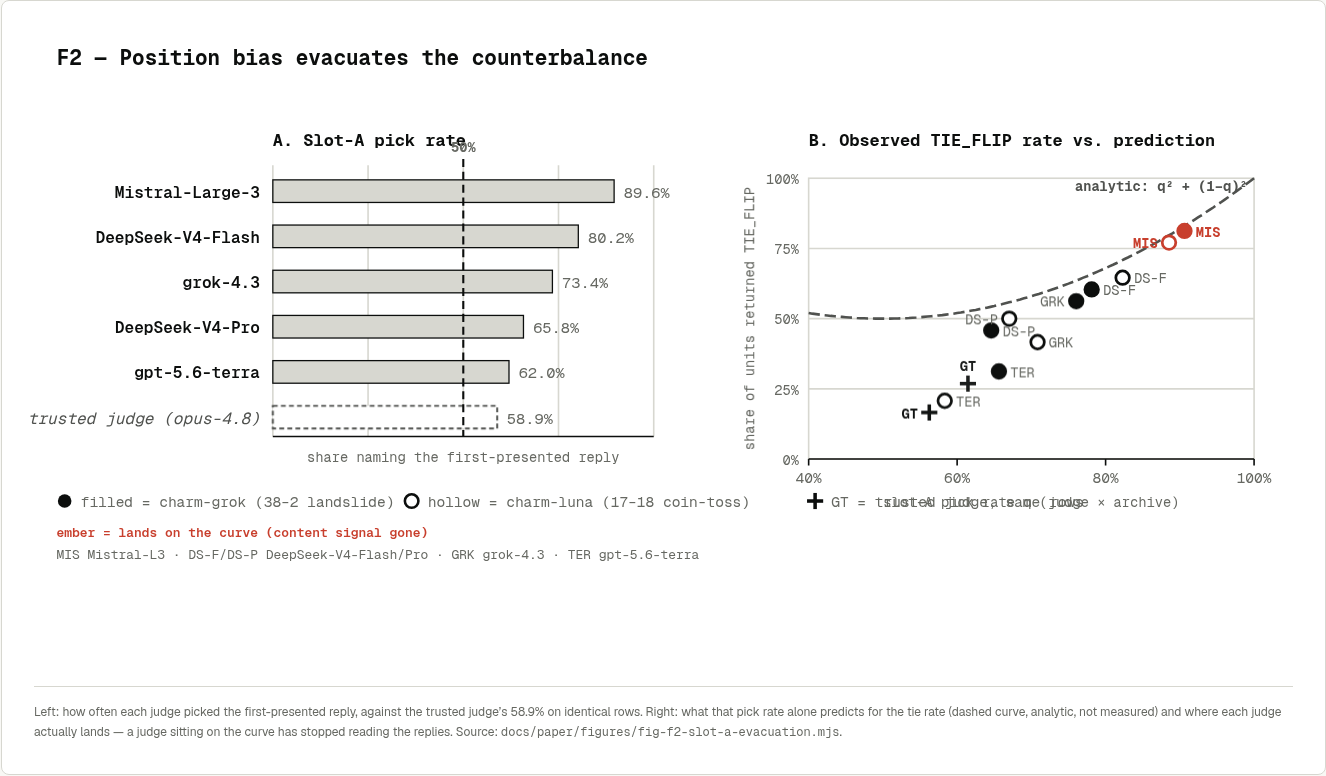
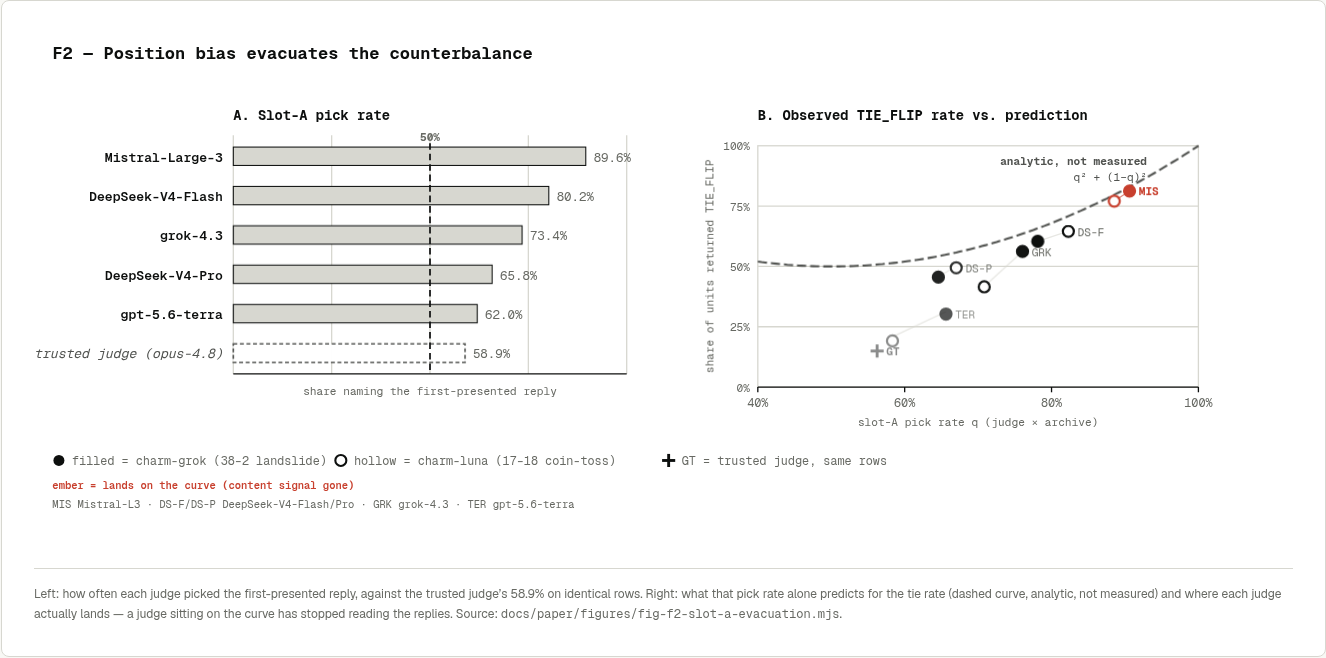
Checkpoint: figure docs + shots from figures workstream
Claude-Session: https://claude.ai/code/session_01ADfx629Po8FtpzbQHrzYQb

diff --git a/docs/website-research/components/FigOrderEvacuation.tsx b/docs/website-research/components/FigOrderEvacuation.tsx
@@ -204,6 +204,7 @@ export function FigOrderEvacuation({
   }
 
   const ticksB = [40, 60, 80, 100];
+  const codeOrder = [...new Set(points.map((p) => p.code))];
 
   return (
     <div ref={narrowRef} className={className}>
@@ -315,11 +316,39 @@ export function FigOrderEvacuation({
             q² + (1−q)²
           </text>
 
+          {/* Same-judge pairs (one point per archive) can sit only a few px
+              apart at this data density — Mistral-Large-3's pair is the
+              tightest. A thin connector plus ONE shared code label (placed
+              at whichever archive point sits further from the curve, so it
+              lands in the more open space) reads cleaner than two "MIS"
+              strings fighting for the same few pixels, and doubles as a
+              visual echo of the dumbbell motif in Figure 3. */}
+          {codeOrder.map((code) => {
+            const group = points.filter((p) => p.code === code);
+            if (group.length < 2) return null;
+            const [a, b] = group;
+            return (
+              <line
+                key={`connector-${code}`}
+                x1={xB(a.q)}
+                y1={yB(a.tieFlipRate)}
+                x2={xB(b.q)}
+                y2={yB(b.tieFlipRate)}
+                stroke={a.onCurve ? EMBER : HAIRLINE}
+                strokeWidth={1}
+                opacity={0.6}
+              />
+            );
+          })}
           {points.map((p, i) => {
             const px = xB(p.q);
             const py = yB(p.tieFlipRate);
             const filled = p.archive === "charm-grok";
-            const lbl = narrow && !p.onCurve ? null : placeLabel(px, py, p.code);
+            const group = points.filter((q) => q.code === p.code);
+            const labelHere =
+              group.length < 2 ||
+              p === group.reduce((best, cur) => (cur.tieFlipRate > best.tieFlipRate ? cur : best));
+            const lbl = labelHere && !(narrow && !p.onCurve) ? placeLabel(px, py, p.code) : null;
             const color = p.onCurve ? EMBER : INK;
             return (
               <g key={`${p.judge}-${p.archive}`} {...anim(200 + i * 40)}>

diff --git a/docs/website-research/components/FigJudgeCeiling.tsx b/docs/website-research/components/FigJudgeCeiling.tsx
@@ -365,7 +365,7 @@ export function FigJudgeCeiling({
             tone="muted"
             verdict="CEILING"
             verdictColor={ASH}
-            labelSuffix={narrow ? "ceiling, not a candidate" : undefined}
+            labelSuffix={narrow ? "ceiling" : undefined}
           />
 
           {/* separator + invalid row */}
@@ -382,7 +382,7 @@ export function FigJudgeCeiling({
             tone="faded"
             verdict="INVALID"
             verdictColor={SLATE}
-            labelSuffix={narrow ? "invalid, not a result" : undefined}
+            labelSuffix={narrow ? "not a result" : undefined}
           />
 
           {/* axis */}
